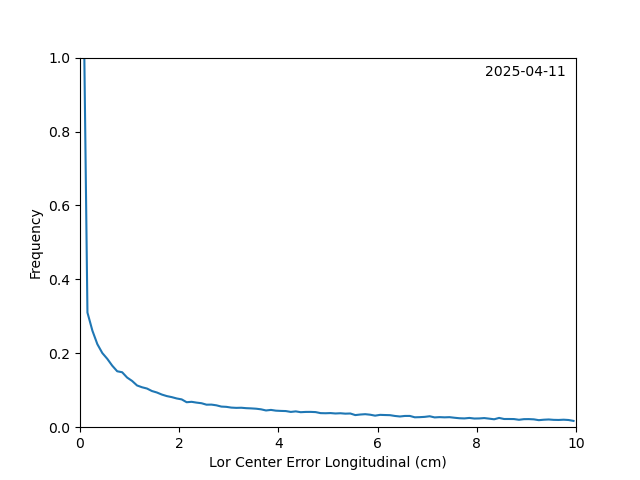
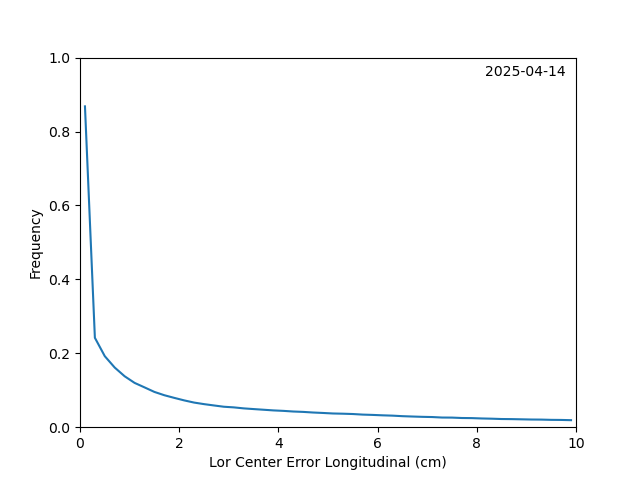
fixed some file references

diff --git a/src/hgmt_lor_creator.c b/src/hgmt_lor_creator.c
@@ -299,12 +299,11 @@ void print_path(photon_path *path) {
     int index = path->hits[i].source - path->events;
     detected[index] = 1;
   }
-  for (int i = 0; i < path->num_events; i++) {
+  for (int i = 0; i < path->num_events; i++)
     // format: x,y,z, energy deposit, detected
     fprintf(visualization, "%lf %lf %lf %lf %d \n", path->events[i].location.x,
             path->events[i].location.y, path->events[i].location.z,
             path->events[i].energy_deposit, detected[i] ? 1 : 0);
-  }
 }
 void print_annihilation(annihilation *new_annihilation) {
   fprintf(visualization, "%lf %lf %lf \n\n", new_annihilation->center.x,
@@ -320,9 +319,6 @@ int debug_path(photon_path *path) {
     cuts[0]++;
     return 0;
   }
-  bool *detected = calloc(path->num_events, sizeof(bool));
-  for (int i = 0; i < path->num_hits; i++)
-    detected[path->hits[i].source - path->events] = 1;
   // getting all the important statistics
   num_scatters += path->num_events;
   num_hits += path->num_hits;
@@ -343,7 +339,6 @@ int debug_path(photon_path *path) {
   else
     cut = 4;
   cuts[cut]++;
-  free(detected);
   return cut;
 }
 int debug_annihilation(annihilation *new_annihilation) {
@@ -359,7 +354,7 @@ int debug_annihilation(annihilation *new_annihilation) {
   dual_cuts[cut]++;
 
   if (debug_options[4] && cut >= 1)
-    for (int i = 0; i < new_annihilation->photon1_path->num_events; i++) {
+    for (int i = 0; i < new_annihilation->photon1_path->num_events; i++)
       for (int j = 0; j < new_annihilation->photon2_path->num_events; j++) {
         vec3d true_center = new_annihilation->center;
         vec3d loc1 = new_annihilation->photon1_path->events[i].location;
@@ -371,7 +366,6 @@ int debug_annihilation(annihilation *new_annihilation) {
         print_double(impact_parameter(loc1, loc2, tof1, tof2, true_center),
                      debug[4]);
       }
-    }
   return cut;
 }
 void debug_lor(lor *new_lor, vec3d truecenter) {
@@ -393,7 +387,7 @@ int main(int argc, char **argv) {
   for (int i = 0; i < num_flags(argc, argv); i++) {
     if (strcmp(flags[i], "-h") == 0) {
       printf("Usage: ./hgmt_lor_creator [TOPAS_file_location.phsp] "
-             "[efficiency_table_location.csv] [LOR_output_location]\n");
+             "[efficiency_table_location.csv] [output_directory]\n");
       printf("-h: print this help\n");
       printf("-d: run in debug mode, do not write to lor file\n");
       printf("-v#: visualize # events\n");
@@ -419,7 +413,7 @@ int main(int argc, char **argv) {
   }
 
   // checks to make sure you have correct number of args
-  if (num_args(argc, argv) != 3 - !writing_to_lor) {
+  if (num_args(argc, argv) != 3) {
     printf("Incorrect number of arguments, three arguments required.\n");
     printf("Use the -h command to get options.\n\n");
     exit(1);
@@ -435,16 +429,16 @@ int main(int argc, char **argv) {
   // opens up a .lor file to output each LOR into
   FILE *lor_output = NULL;
   if (writing_to_lor) {
-    printf("Unable to open output file for writing1\n");
+    printf("Unable to open output file for writing\n");
     char *lor_file_loc;
-    asprintf(&lor_file_loc, "data/%s.lor", args[2]);
+    asprintf(&lor_file_loc, "%sHGMTDerenzo.lor", args[2]);
     lor_output = fopen(lor_file_loc, "wb");
     free(lor_file_loc);
   }
   for (int i = 0; i < NUM_DEBUG_OPTIONS; i++) {
     if (debug_options[i]) {
       char *filename;
-      asprintf(&filename, "data/debug%d.data", i);
+      asprintf(&filename, "%sdebug%d.data", args[2], i);
       debug[i] = fopen(filename, "wb");
       free(filename);
     }

diff --git a/scripts/plot_multiple.py b/scripts/plot_multiple.py
@@ -22,7 +22,7 @@ def read_labeled_doubles_from_binary_file(filename, labelints):
 
 
 def plot_histogram(doubles, key, xmax):
-    counts, bin_edges = np.histogram(doubles, bins=100, range=(0, xmax))
+    counts, bin_edges = np.histogram(doubles, bins=50, range=(0, xmax))
     # Compute bin centers
     bin_centers = (bin_edges[:-1] + bin_edges[1:]) / 2
     bin_widths = bin_edges[1:] - bin_edges[:-1]

diff --git a/scripts/plot_histogram.py b/scripts/plot_histogram.py
@@ -12,7 +12,7 @@ def read_doubles_from_binary_file(filename):
 
 
 def plot_histogram(doubles, xmax):
-    counts, bin_edges = np.histogram(doubles, bins=100, range=(0, xmax))
+    counts, bin_edges = np.histogram(doubles, bins=50, range=(0, xmax))
     # Compute bin centers
     bin_centers = (bin_edges[:-1] + bin_edges[1:]) / 2
     bin_widths = bin_edges[1:] - bin_edges[:-1]
